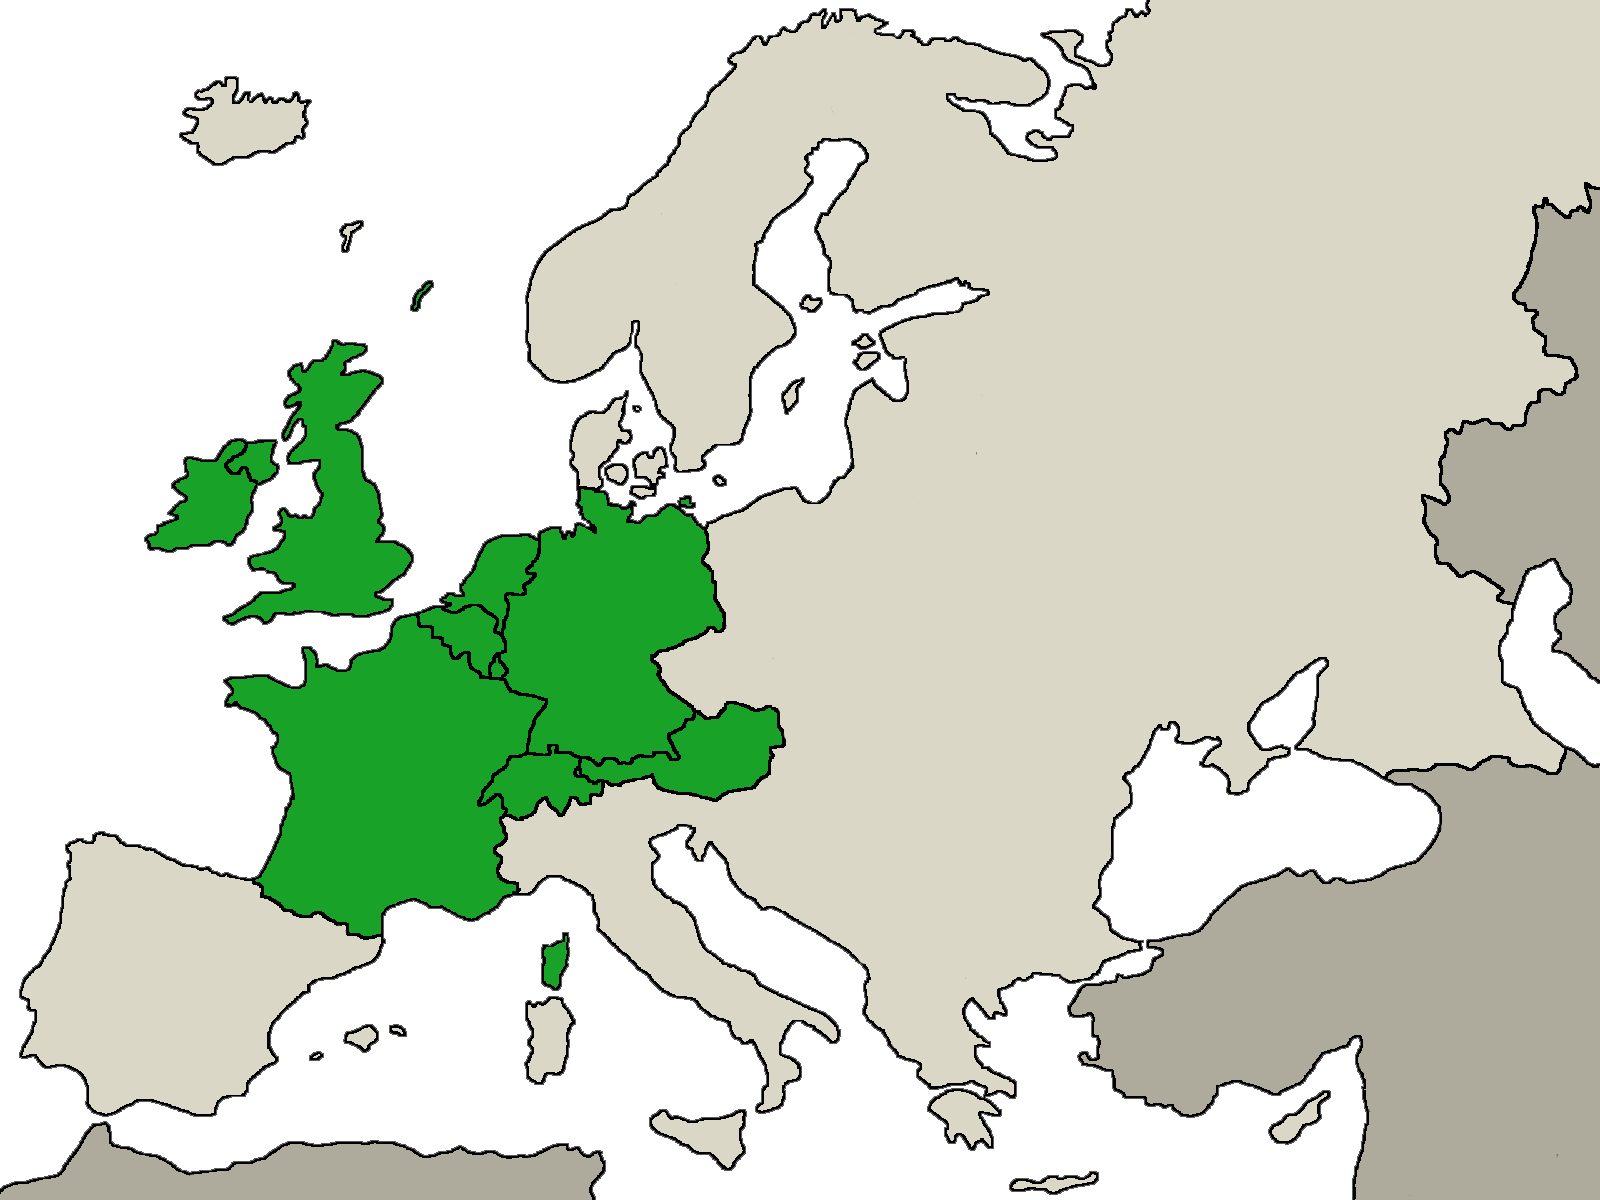
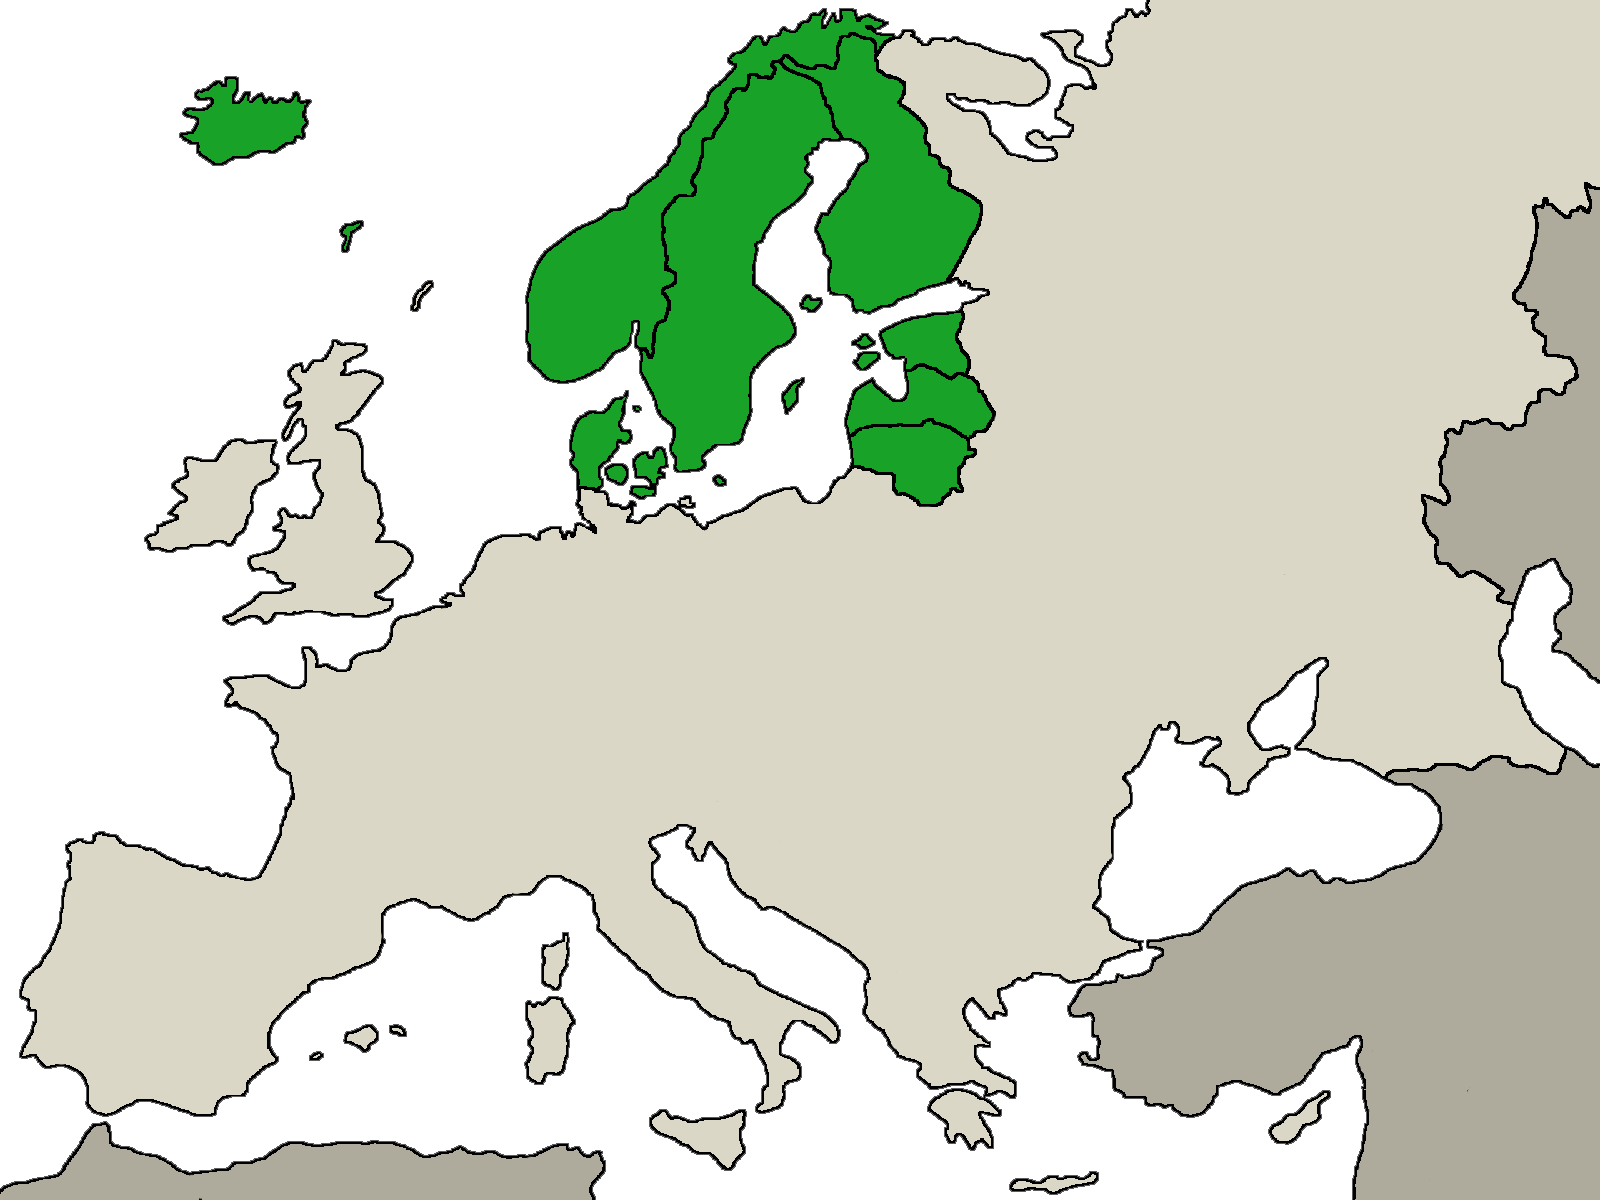
Update 29.06.2013 - 2

Changed region(s): [[0.0938, 0.0, 0.625, 0.8017], [0.0938, 0.0617, 0.1875, 0.1542], [0.3438, 0.7708, 0.375, 0.8325]]

diff --git a/js/engine.js b/js/engine.js
@@ -173,12 +173,22 @@ define(['globi','lib/filters/BoxBlurFilter','lib/filters/ColorFilter'],function(
 
 			// Hintergrund laden
 			// String zusammenbauen
-			var fileName = level.bg+'-';
-			fileName += this.level.procress[0];
-			fileName += this.level.procress[1];
-			fileName += this.level.procress[2];
-			fileName += this.level.procress[3];
-			fileName += ".png";
+
+			var fileName = '';
+			if(this.level.stage == 1){
+				fileName += level.bg+'-';
+				fileName += this.level.procress[0];
+				fileName += this.level.procress[1];
+				fileName += this.level.procress[2];
+				fileName += this.level.procress[3];
+				fileName += ".png";
+			}
+
+			if(this.level.stage == 2){
+				fileName  = level.bg;
+			}
+			
+
 			console.log('LEVELDATEI: '+fileName);
 
 			this.lvl_bg = new createjs.Bitmap(fileName);

diff --git a/js/level.js b/js/level.js
@@ -12,7 +12,7 @@ define(['jquery'],function($){
 			this.procress[3] = 0;	// Nordeuropa
 
 			// aktueller Abschnitt
-			this.stage = 1;
+			this.stage = 2;
 
 			// counter für Scripte
 			this.level_played = 0;
